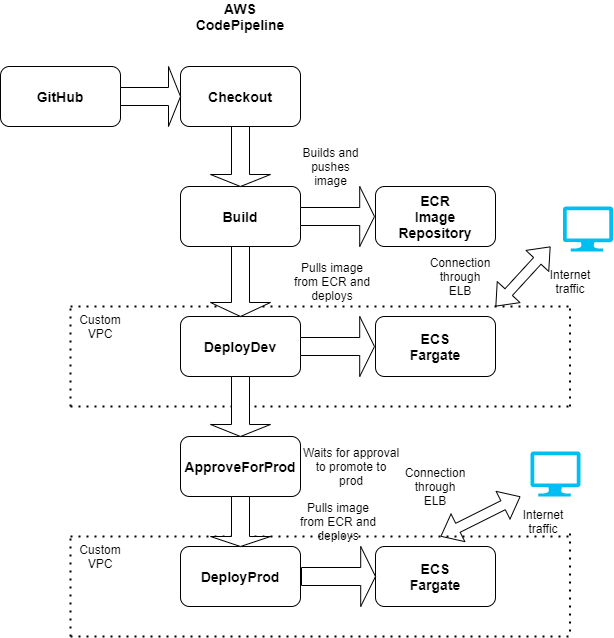
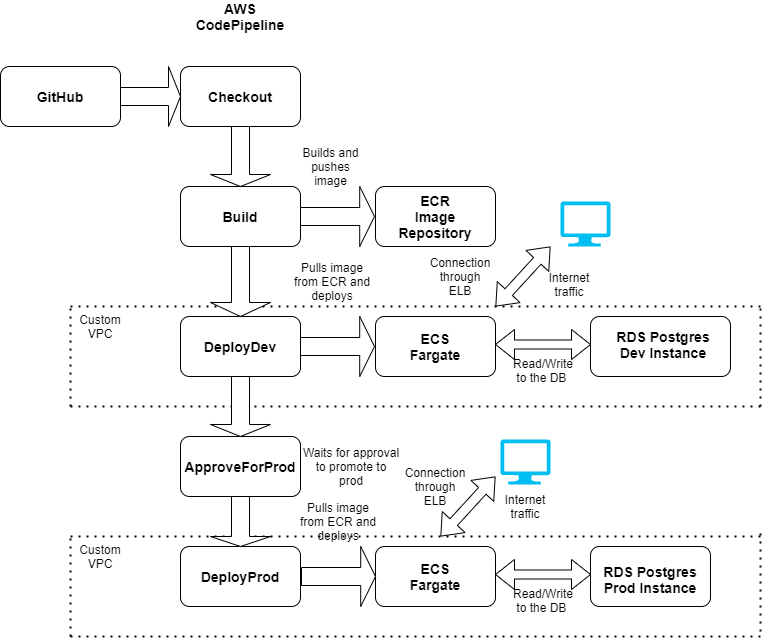
Added DB Config

diff --git a/README.md b/README.md
@@ -3,16 +3,45 @@
 ## The *`README.md`* is different for each branch. Please read the instructions carefully
 
 Please follow the numbering on each branch to track the progress step by step.
-**This branch is step number 1**
+**This branch is step number 2**
 
-The workflow of step 1 looks like this
+The workflow for step2 looks like this
 ![alt text](./Application_Flow.png "Application flow")
 
-## Changes from last step [0-inmemory-springboot-api](https://github.com/S-Polimetla/cicd-fargate-rds-api-gateway/tree/0-inmemory-springboot-api)
+## Changes from last step [1-codepipeline-fargate](https://github.com/S-Polimetla/cicd-fargate-rds-api-gateway/tree/1-codepipeline-fargate)
 
-1. CI/CD starts from this step. To deploy the Springboot Application on AWS using CodePipeline and Fargate, the configuration is added
-2. The file [network-config.yaml](./cloudformation-generic/network-config.yaml) creates VPC and other network infrastructure necessary for deployment. This also contains security groups and LoadBalancer configuration.
-3. The file [build-pipeline-docker-ecs.yaml](./cloudformation-generic/build-pipeline-docker-ecs.yaml) creates a CodePipeline and its necessary stages with resources. The deployment is done in the VPC created in the last step.
-4. The Database here is embedded within the instance running and hence only available while the container is running.
-5. Hence this solution is not really persistent and the scope is limited to the test environment.
-6. The next step on branch [2-rds-fargate-secrets](https://github.com/S-Polimetla/cicd-fargate-rds-api-gateway/tree/2-rds-fargate-secrets) creates a PostgreSQL on RDS within the same VPC and the Fargate application connects to it.
+1. In the previous step, the application did not have a persistent database. For every rolling update through the CodePipeline, the container restarts with the new image version and all the data is lost.
+2. The file [rds-database.yaml](./cloudformation-generic/rds-database.yaml) creates a RDS PostgreSQL database called `employee` within the same VPC. You have to do this for each stage.
+3. The file [application.properties](./src/main/resources/application.properties) provides Springboot the necessary configuration to connect to the Database.
+4. The database configuration is injected into the docker container during runtime using Fargate Secrets.
+
+````
+Secrets:
+  - Name: DB_HOST
+    ValueFrom: !Sub arn:aws:ssm:${AWS::Region}:${AWS::AccountId}:parameter/DataBaseCredentials/${Stage}/host
+  - Name: DB_NAME
+    ValueFrom: !Sub arn:aws:ssm:${AWS::Region}:${AWS::AccountId}:parameter/DataBaseCredentials/${Stage}/dbname
+  - Name: DB_USERNAME
+    ValueFrom: !Sub arn:aws:ssm:${AWS::Region}:${AWS::AccountId}:parameter/DataBaseCredentials/${Stage}/username
+  - Name: DB_PASSWORD
+    ValueFrom: !Sub arn:aws:ssm:${AWS::Region}:${AWS::AccountId}:parameter/DataBaseCredentials/${Stage}/password
+````
+
+The above is the relevant part where Fargate pulls secrets from SSM parameters.
+
+This is similar to running
+````
+docker run -e VARIABLE1=value1 -p 8080:8080 <Your-Image-Name>:<Your-Tag>
+````
+5. The LoadBalancer here is public facing and has no security or validation for the incoming requests.  In the next step [3-elb-api-gateway](https://github.com/S-Polimetla/cicd-fargate-rds-api-gateway/tree/3-fargate-api-gateway), the ELB is set behind a API Gateway which is exposed to the API consumer instead of ELB DNS. The API consumer is authenticated using API Key.
+
+### _Note_
+The database created here is mapped to a custom domain name.  It is optional.
+
+### If you are adding on to the previous step by just switching the branch for the pipeline stack, make sure you create the respective database(s) first. 
+
+### If you are starting with the branch directly, here is the order of creation of resources
+
+1. [network-config.yaml](./cloudformation-generic/network-config.yaml)
+2. [rds-database.yaml](./cloudformation-generic/rds-database.yaml) twice. One for each environment
+3. [build-pipeline-docker-ecs.yaml](./cloudformation-generic/build-pipeline-docker-ecs.yaml)
